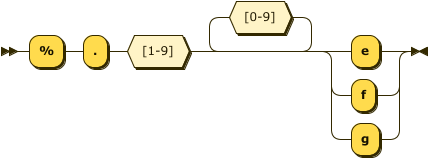
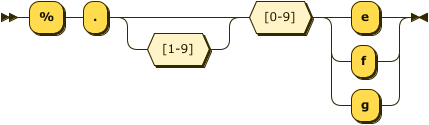
- fixed datatype table

Changed region(s): [[0.0, 0.0, 1.0, 1.0]]

diff --git a/protocol/secop_specification_draft_wip.rst b/protocol/secop_specification_draft_wip.rst
@@ -1106,12 +1106,6 @@ The format of the descriptive data is JSON, as all other data in SECoP.
 SEC Node Properties
 -------------------
 
-SEC_node_description
-~~~~~~~~~~~~~~~~~~~~
-.. image:: images/2019-07-09/SEC_node_description.png
-   :alt: SEC_node_description ::= '{' (SEC_node_property ( ',' SEC_node_property)* )? '}'
-
-
 .. image:: images/sec-node-description.svg
    :alt: SEC_node_description ::= '{' (SEC_node_property ( ',' SEC_node_property)* )? '}'
 
@@ -1119,6 +1113,9 @@ SEC_node_property
 ~~~~~~~~~~~~~~~~~
 .. image:: images/2019-07-09/SEC_node_property.png
    :alt: SEC_node_property ::= property |  ( '"modules":' '{' (name ':' module_description (',' name ':' module_description)*)? '}')
+
+TODO:
+    replace railroad diagram with above: list of properties should be extensible without modifing diagram
 
 
 .. image:: images/sec-node-property.svg
@@ -1156,12 +1153,6 @@ communication of a SEC node.
 Module Properties
 -----------------
 
-module_description
-~~~~~~~~~~~~~~~~~~
-.. image:: images/2019-07-09/module_description.png
-   :alt: module_description ::= '{' (module_property ( ',' module_property)* )? '}'
-
-
 .. image:: images/module-description.svg
    :alt: module_description ::= '{' (module_property ( ',' module_property)* )? '}'
 
@@ -1170,7 +1161,9 @@ module_property
 .. image:: images/2019-07-09/module_property.png
    :alt: module_property ::= property |  ( '"accessibles":' '{' (name ':' properties (',' name ':' properties)*)? '}')
 
-   
+TODO:
+    replace railroad diagram with above: list of properties should be extensible without modifing diagram
+
 .. image:: images/module-property.svg
    :alt: module_property ::= property |  ( '"accessibles":' '{' (name ':' properties (',' name ':' properties)*)? '}')
 
@@ -1251,19 +1244,16 @@ module_property
 Accessible Properties
 ---------------------
 
-accessible_description
-~~~~~~~~~~~~~~~~~~~~~~
-.. image:: images/2019-07-09/accessible_description.png
-   :alt: accessible_description ::=  '{' (property ( ',' property)* )? '}'
-
 .. image:: images/accessible-description.svg
-   :alt: properties ::=  '{' (property ( ',' property)* )? '}'
+   :alt: accessible_description ::=  '{' (property ( ',' property)* )? '}'
 
 property
 ~~~~~~~~
 .. image:: images/2019-07-09/property.png
    :alt: property ::= (name ":" property_value)
 
+TODO:
+    replace railroad diagram with above: list of properties should be extensible without modifing diagram
  
 .. image:: images/accessible-property.svg
    :alt: property ::= (name ":" property_value)
@@ -1364,12 +1354,15 @@ datatype_property
 .. image:: images/2019-07-09/property.png
    :alt: property ::= (name ":" property_value)
 
+TODO:
+    replace by above two diagrams
 
 .. image:: images/datatype-generic.svg
 
 Here is an overview of all defined datatypes:
 
-compact version: no railroad diagram
+TODO:
+    remove diagram, as all information is in list below, nothing really different from generic
 
 .. image:: images/datatype.svg
 
@@ -1421,13 +1414,16 @@ optional datatype properties
     optional string as a hint on how to format numeric parameters for the user.
     default value: "%.6g"
 
-    The string must follow the following syntax:
+    The string must obey the following syntax:
 
     .. image:: images/2019-07-09/fmtstr.png
-        :alt: fmtstr ::= "%" "." [1-9] [0-9]* ( "e" | "f" | "g" )
+        :alt: fmtstr   ::= '%' '.' [1-9]? [0-9] ( 'e' | 'f' | 'g' )
+    
+    TODO:
+        replace, %.0f should be allowed
         
     .. image:: images/fmtstr.svg
-        :alt: fmtstr ::= "%" "." [1-9] [0-9]* ( "e" | "f" | "g" )
+        :alt: fmtstr ::= "%" "." [1-9] [0-9]? ( "e" | "f" | "g" )
       
 
 example
@@ -1489,7 +1485,7 @@ optional datatype properties
     optional string as a hint on how to format numeric parameters for the user.
     default value: "%.<n>f" where <n> = max(0,-floor(log10(scale)))
     
-    The string must follow the same syntax as above for ``double``.
+    The string must obey the same syntax as above for ``double``.
 
 example
 ~~~~~~~
